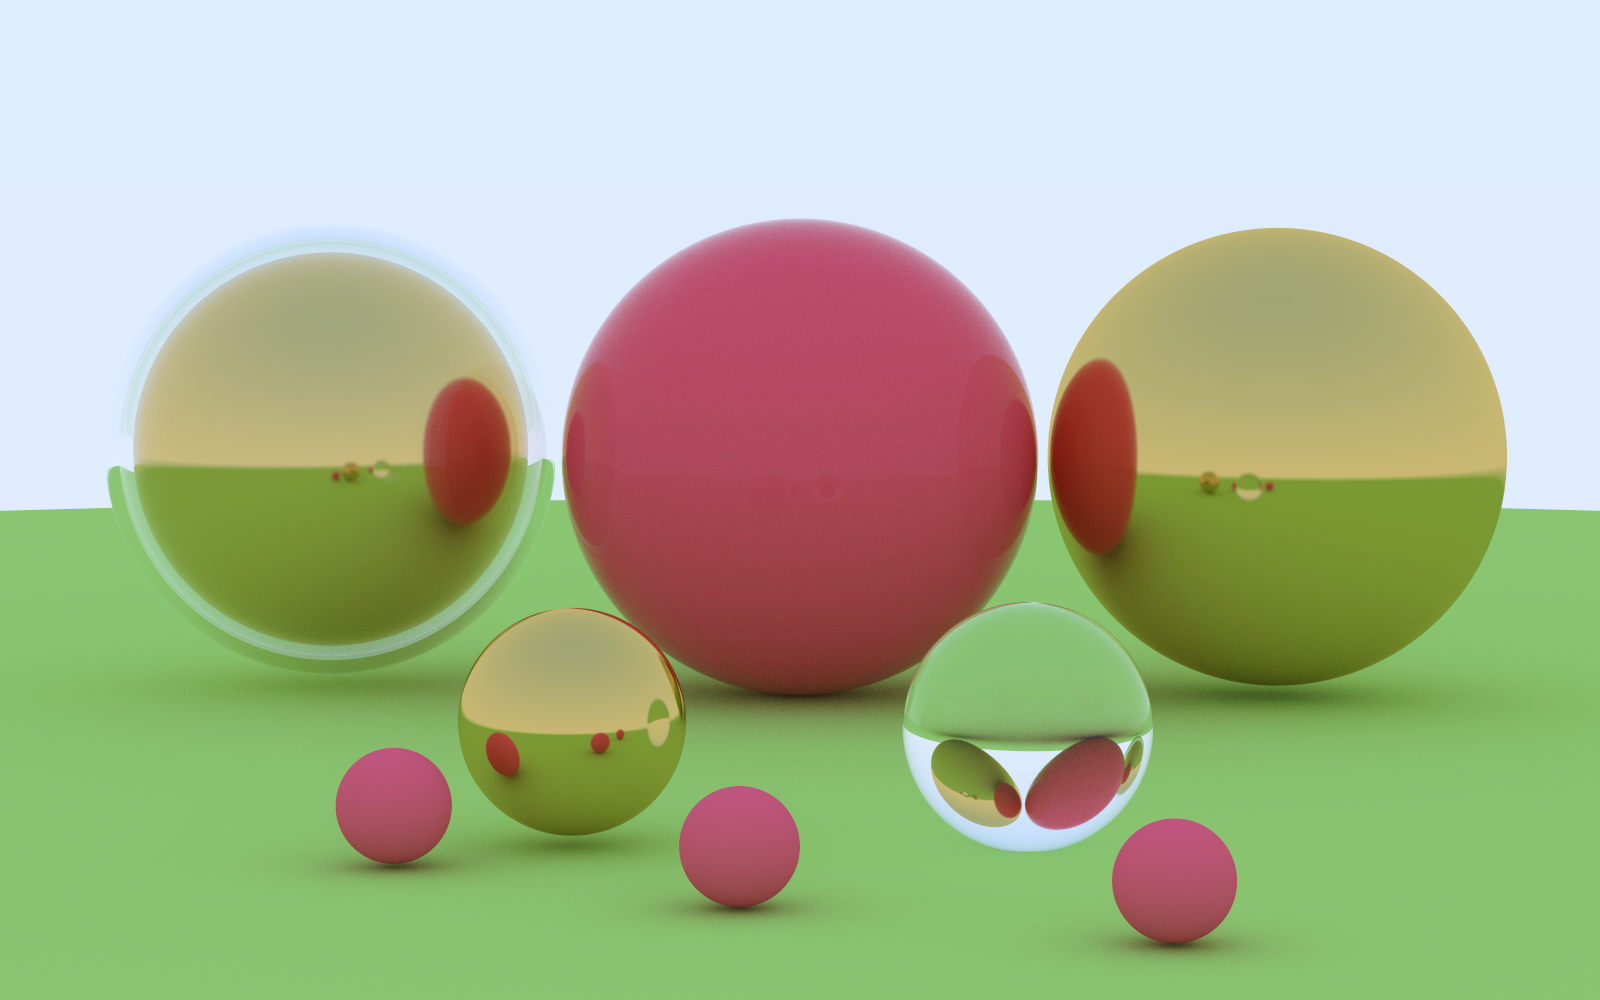
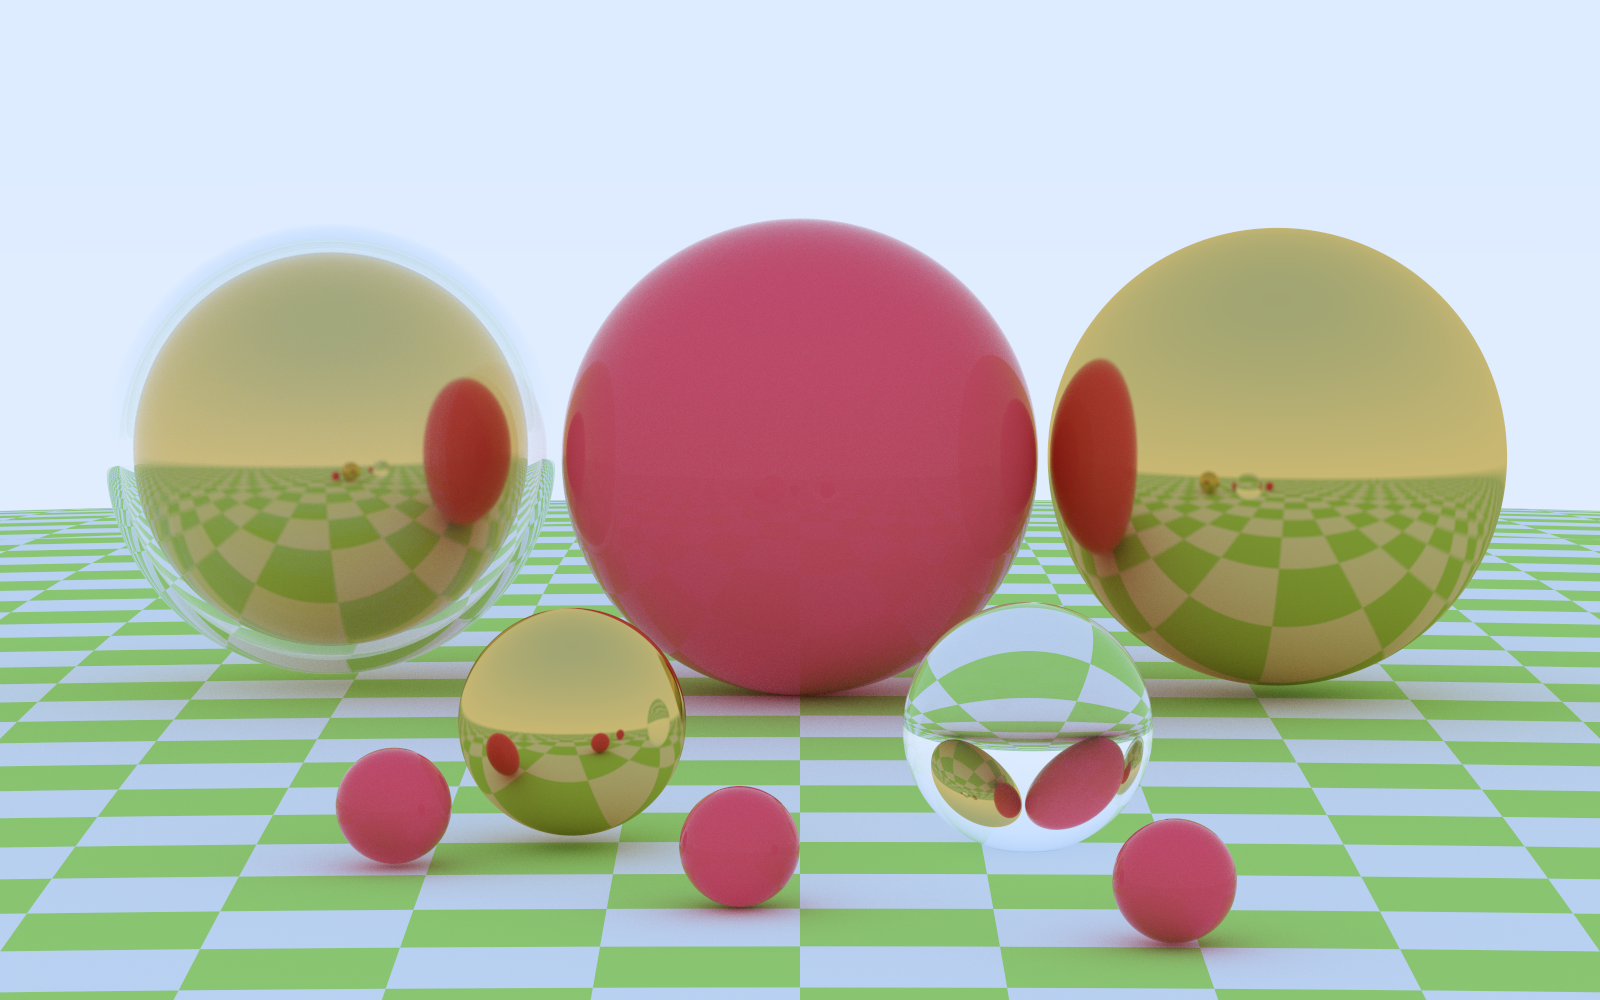
starting work on textures

Changed region(s): [[0.0, 0.465, 1.0, 1.0]]

diff --git a/src/main.rs b/src/main.rs
@@ -17,11 +17,12 @@ use v3::{P3, V3};
 
 pub const ASPECT_RATIO: f64 = 16.0 / 10.0; // image aspect ratio
 pub const IMAGE_WIDTH: u16 = 1600; // image width in pixels
-pub const SAMPLES_PER_PIXEL: u16 = 500; // number of random samples per pixel
-pub const MAX_BOUNCES: u8 = 50; // maximum number of ray bounces allowed
+pub const SAMPLES_PER_PIXEL: u16 = 600; // number of random samples per pixel
+pub const MAX_BOUNCES: u8 = 60; // maximum number of ray bounces allowed
 
 fn main() {
     // let (hittables, camera) = random_ballscape();
+    // let (hittables, camera) = checkered_spheres();
     let (hittables, camera) = composed();
 
     eprintln!("Computing bvh tree...");
@@ -41,10 +42,10 @@ fn main() {
 pub fn composed() -> (Vec<Hittable>, Camera) {
     let mut hittables = Vec::default();
 
-    let m_ground = Material::lambertian(Color::new(0.5, 0.8, 0.2));
+    let m_ground = Material::checker(0.32, Color::new(0.5, 0.8, 0.2), Color::new(0.9, 0.9, 0.9));
     hittables.push(Sphere::new(P3::new(0.0, -100.5, -1.0), 100.0, m_ground).into());
 
-    let matte = Material::lambertian(Color::new(0.95, 0.15, 0.25));
+    let matte = Material::solid_color(Color::new(0.95, 0.15, 0.25));
     let glass = Material::dielectric(1.33);
     let air = Material::dielectric(1.0 / 1.33);
     let gold = Material::metal(Color::new(0.8, 0.6, 0.2), 0.02);
@@ -62,9 +63,12 @@ pub fn composed() -> (Vec<Hittable>, Camera) {
     hittables.push(Sphere::new(P3::new(0.4, -0.31, 1.0), 0.22, glass).into());
     hittables.push(Sphere::new(P3::new(-0.4, -0.3, 1.0), 0.2, gold).into());
 
-    hittables.push(Sphere::new(P3::new(-0.7, -0.42, 1.2), 0.1, matte).into());
-    hittables.push(Sphere::new(P3::new(-0.1, -0.43, 1.6), 0.1, matte).into());
-    hittables.push(Sphere::new(P3::new(0.6, -0.44, 1.9), 0.1, matte).into());
+    hittables.push(Sphere::new(P3::new(-0.7, -0.42, 1.2), 0.098, matte).into());
+    hittables.push(Sphere::new(P3::new(-0.7, -0.42, 1.2), 0.1, glass).into());
+    hittables.push(Sphere::new(P3::new(-0.1, -0.43, 1.6), 0.098, matte).into());
+    hittables.push(Sphere::new(P3::new(-0.1, -0.43, 1.6), 0.1, glass).into());
+    hittables.push(Sphere::new(P3::new(0.6, -0.44, 1.9), 0.098, matte).into());
+    hittables.push(Sphere::new(P3::new(0.6, -0.44, 1.9), 0.1, glass).into());
 
     let vertical_fov: f64 = 10.0;
     let look_from: P3 = P3::new(0.0, 1.0, 11.0);
@@ -93,7 +97,7 @@ pub fn composed() -> (Vec<Hittable>, Camera) {
 pub fn random_ballscape() -> (Vec<Hittable>, Camera) {
     let mut hittables = Vec::default();
 
-    let m_ground = Material::lambertian(Color::new(0.5, 0.5, 0.5));
+    let m_ground = Material::solid_color(Color::new(0.5, 0.5, 0.5));
     hittables.push(Sphere::new(P3::new(0.0, -1000.0, -1.0), 1000.0, m_ground).into());
 
     for a in -11..11 {
@@ -108,7 +112,7 @@ pub fn random_ballscape() -> (Vec<Hittable>, Camera) {
             if (center - P3::new(2.0, 0.2, 0.0)).length() > 0.9 {
                 let mat = if k < 0.8 {
                     let albedo = Color::random(0.0, 1.0) * Color::random(0.0, 1.0);
-                    let mat = Material::lambertian(albedo);
+                    let mat = Material::solid_color(albedo);
                     let center2 = center + V3::new(0.0, random_range(0.0..0.5), 0.0);
 
                     hittables.push(Sphere::new_moving(center, center2, 0.2, mat).into());
@@ -126,7 +130,7 @@ pub fn random_ballscape() -> (Vec<Hittable>, Camera) {
         }
     }
 
-    let m_center = Material::lambertian(Color::new(0.3, 0.2, 0.5));
+    let m_center = Material::solid_color(Color::new(0.3, 0.2, 0.5));
     let m_left = Material::dielectric(1.5);
     let m_bubble = Material::dielectric(1.0 / 1.5);
     let m_right = Material::metal(Color::new(0.8, 0.6, 0.2), 0.02);
@@ -138,6 +142,36 @@ pub fn random_ballscape() -> (Vec<Hittable>, Camera) {
 
     let vertical_fov: f64 = 20.0;
     let look_from: P3 = P3::new(10.0, 3.0, 10.0);
+    let look_at: P3 = P3::new(0.0, 0.0, 0.0);
+    let v_up: V3 = V3::new(0.0, 1.0, 0.0);
+    let defocus_angle: f64 = 0.05;
+    let focus_dist: f64 = 10.0;
+
+    let camera = Camera::new(
+        ASPECT_RATIO,
+        IMAGE_WIDTH,
+        SAMPLES_PER_PIXEL,
+        MAX_BOUNCES,
+        vertical_fov,
+        look_from,
+        look_at,
+        v_up,
+        defocus_angle,
+        focus_dist,
+    );
+
+    (hittables, camera)
+}
+
+pub fn checkered_spheres() -> (Vec<Hittable>, Camera) {
+    let mut hittables = Vec::default();
+
+    let m_checker = Material::checker(0.32, Color::new(0.2, 0.3, 0.1), Color::new(0.9, 0.9, 0.9));
+    hittables.push(Sphere::new(P3::new(0.0, -10.0, 0.0), 10.0, m_checker).into());
+    hittables.push(Sphere::new(P3::new(0.0, 10.0, 0.0), 10.0, m_checker).into());
+
+    let vertical_fov: f64 = 20.0;
+    let look_from: P3 = P3::new(12.0, 3.0, 3.0);
     let look_at: P3 = P3::new(0.0, 0.0, 0.0);
     let v_up: V3 = V3::new(0.0, 1.0, 0.0);
     let defocus_angle: f64 = 0.05;

diff --git a/src/material.rs b/src/material.rs
@@ -1,16 +1,73 @@
-use crate::{Color, HitRecord, Ray, V3};
+use crate::{Color, HitRecord, Ray, P3, V3};
 use rand::random_range;
 
 #[derive(Debug, Clone, Copy)]
+pub enum Texture {
+    SolidColor {
+        albedo: Color,
+    },
+    Checker {
+        inv_scale: f64,
+        odd: &'static Texture,
+        even: &'static Texture,
+    },
+}
+
+impl Texture {
+    pub fn solid(albedo: Color) -> Texture {
+        Self::SolidColor { albedo }
+    }
+
+    pub fn checker(scale: f64, odd: Texture, even: Texture) -> Texture {
+        Self::Checker {
+            inv_scale: 1.0 / scale,
+            odd: Box::leak(Box::new(odd)),
+            even: Box::leak(Box::new(even)),
+        }
+    }
+
+    pub fn value(&self, u: f64, v: f64, p: P3) -> Color {
+        match self {
+            Self::SolidColor { albedo } => *albedo,
+            Self::Checker {
+                inv_scale,
+                odd,
+                even,
+            } => checker_value(u, v, p, *inv_scale, odd, even),
+        }
+    }
+}
+
+fn checker_value(u: f64, v: f64, p: P3, inv_scale: f64, odd: &Texture, even: &Texture) -> Color {
+    let x = (inv_scale * p.x).floor() as i64;
+    let y = (inv_scale * p.y).floor() as i64;
+    let z = (inv_scale * p.z).floor() as i64;
+
+    if (x + y + z) % 2 == 0 {
+        even.value(u, v, p)
+    } else {
+        odd.value(u, v, p)
+    }
+}
+
+#[derive(Debug, Clone, Copy)]
 pub enum Material {
-    Lambertian { albedo: Color },
+    Lambertian { texture: Texture },
     Metal { albedo: Color, fuzz: f64 },
     Dielectric { ref_index: f64 },
 }
 
 impl Material {
-    pub fn lambertian(albedo: Color) -> Material {
-        Self::Lambertian { albedo }
+    pub fn solid_color(albedo: Color) -> Material {
+        Self::Lambertian {
+            texture: Texture::solid(albedo),
+        }
+    }
+
+    pub fn checker(scale: f64, even: Color, odd: Color) -> Material {
+        Self::Lambertian {
+            texture: Texture::checker(scale, Texture::solid(even), Texture::solid(odd)),
+        }
     }
 
     pub fn metal(albedo: Color, fuzz: f64) -> Material {
@@ -25,21 +82,22 @@ impl Material {
 
     pub fn scatter(&self, r_in: &Ray, rec: &HitRecord) -> Option<(Ray, Color)> {
         match self {
-            Self::Lambertian { albedo } => lambertian_scatter(albedo, r_in, rec),
+            Self::Lambertian { texture } => lambertian_scatter(texture, r_in, rec),
             Self::Metal { albedo, fuzz } => metal_scatter(albedo, *fuzz, r_in, rec),
             Self::Dielectric { ref_index } => dielectric_scatter(*ref_index, r_in, rec),
         }
     }
 }
 
-fn lambertian_scatter(albedo: &Color, r_in: &Ray, rec: &HitRecord) -> Option<(Ray, Color)> {
+fn lambertian_scatter(texture: &Texture, r_in: &Ray, rec: &HitRecord) -> Option<(Ray, Color)> {
     let mut scatter_direction = rec.normal + V3::random_unit_vector();
     if scatter_direction.near_zero() {
         scatter_direction = rec.normal;
     }
     let scattered = Ray::new(rec.p, scatter_direction, r_in.time);
+    let attenuation = texture.value(rec.u, rec.v, rec.p);
 
-    Some((scattered, *albedo))
+    Some((scattered, attenuation))
 }
 
 fn metal_scatter(albedo: &Color, fuzz: f64, r_in: &Ray, rec: &HitRecord) -> Option<(Ray, Color)> {

diff --git a/src/hit.rs b/src/hit.rs
@@ -1,4 +1,5 @@
 use crate::{bbox::AABBox, material::Material, Ray, P3, V3};
+use std::f64::consts::PI;
 
 #[derive(Debug, Clone, Copy, PartialEq)]
 pub struct Interval {
@@ -56,17 +57,19 @@ impl Interval {
     }
 }
 
-#[derive(Debug, Clone, Copy)]
+#[derive(Debug, Clone)]
 pub struct HitRecord {
     pub t: f64,
     pub p: P3,
     pub normal: V3,
     pub front_face: bool,
     pub mat: Material,
+    pub u: f64,
+    pub v: f64,
 }
 
 impl HitRecord {
-    pub fn new(t: f64, p: P3, outward_normal: V3, r: &Ray, mat: Material) -> Self {
+    pub fn new(t: f64, p: P3, outward_normal: V3, r: &Ray, mat: Material, u: f64, v: f64) -> Self {
         let front_face = r.dir.dot(&outward_normal) < 0.0;
         let normal = if front_face {
             outward_normal
@@ -80,6 +83,8 @@ impl HitRecord {
             normal,
             front_face,
             mat,
+            u,
+            v,
         }
     }
 
@@ -96,10 +101,11 @@ impl HitRecord {
     }
 }
 
-#[derive(Debug, Clone, Copy)]
+#[derive(Debug, Clone)]
 pub enum Hittable {
     Empty,
     Sphere(Sphere),
+    List(HittableList),
 }
 
 impl Hittable {
@@ -107,6 +113,7 @@ impl Hittable {
         match self {
             Self::Empty => None,
             Self::Sphere(s) => s.hits(r, ray_t),
+            Self::List(l) => l.hits(r, ray_t),
         }
     }
 
@@ -114,6 +121,7 @@ impl Hittable {
         match self {
             Self::Empty => AABBox::EMPTY,
             Self::Sphere(s) => s.bbox,
+            Self::List(l) => l.bbox,
         }
     }
 }
@@ -121,6 +129,36 @@ impl Hittable {
 impl From<Sphere> for Hittable {
     fn from(s: Sphere) -> Self {
         Self::Sphere(s)
+    }
+}
+
+#[derive(Default, Debug, Clone)]
+pub struct HittableList {
+    pub objects: Vec<Hittable>,
+    bbox: AABBox,
+}
+
+impl HittableList {
+    pub fn clear(&mut self) {
+        self.objects.clear();
+    }
+
+    pub fn add(&mut self, obj: Hittable) {
+        self.bbox = AABBox::new_enclosing(self.bbox, obj.bounding_box());
+        self.objects.push(obj);
+    }
+
+    pub fn hits(&self, r: &Ray, ray_t: Interval) -> Option<HitRecord> {
+        let mut rec: Option<HitRecord> = None;
+        let mut closest_so_far = ray_t.max;
+        for obj in self.objects.iter() {
+            if let Some(obj_rec) = obj.hits(r, Interval::new(ray_t.min, closest_so_far)) {
+                closest_so_far = obj_rec.t;
+                rec = Some(obj_rec);
+            }
+        }
+
+        rec
     }
 }
 
@@ -194,7 +232,12 @@ impl Sphere {
         let p = r.at(root);
         let outward_normal = (p - current_center) / self.radius;
 
-        Some(HitRecord::new(root, p, outward_normal, r, self.mat))
+        let theta = (-outward_normal.y).acos();
+        let phi = (-outward_normal.z).atan2(outward_normal.x) + PI;
+        let u = phi / (2.0 * PI);
+        let v = theta / PI;
+
+        Some(HitRecord::new(root, p, outward_normal, r, self.mat, u, v))
     }
 }
 

diff --git a/src/bbox.rs b/src/bbox.rs
@@ -134,8 +134,14 @@ impl BvhNode {
         }
 
         let (left, right) = match objects.len() {
-            1 => (BvhInner::Leaf(objects[0]), BvhInner::Leaf(Hittable::Empty)),
-            2 => (BvhInner::Leaf(objects[0]), BvhInner::Leaf(objects[1])),
+            1 => (
+                BvhInner::Leaf(objects.remove(0)),
+                BvhInner::Leaf(Hittable::Empty),
+            ),
+            2 => (
+                BvhInner::Leaf(objects.remove(0)),
+                BvhInner::Leaf(objects.remove(0)),
+            ),
             _ => {
                 let axis = bbox.longest_axis();
                 objects.sort_by(|a, b| {
